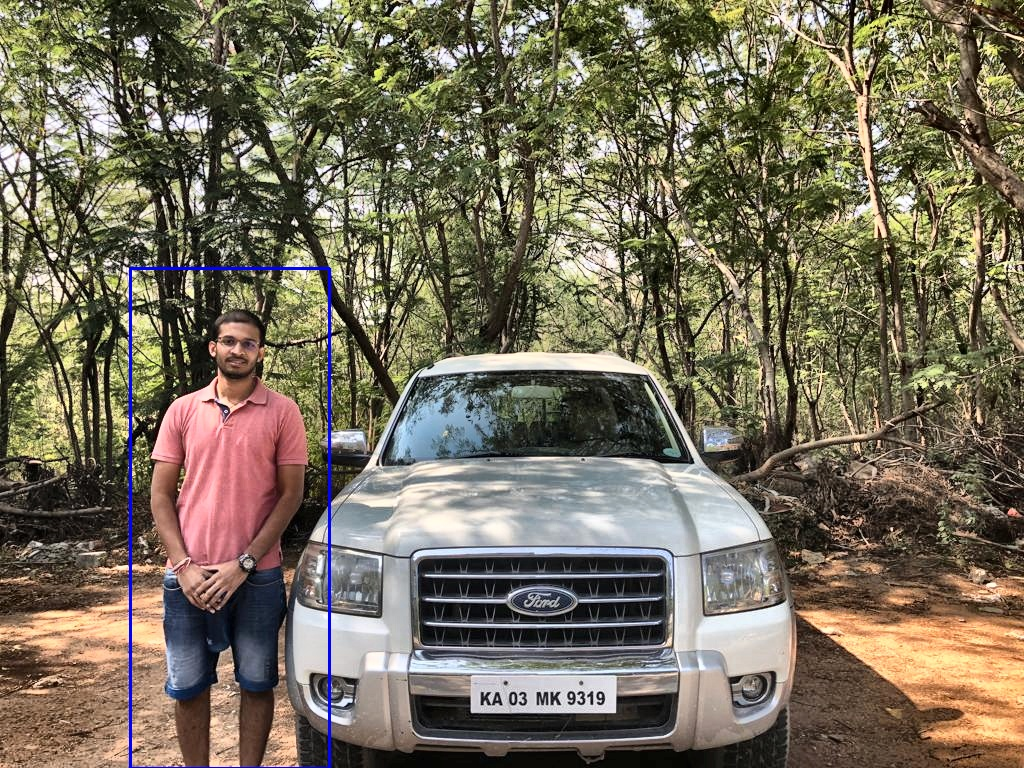
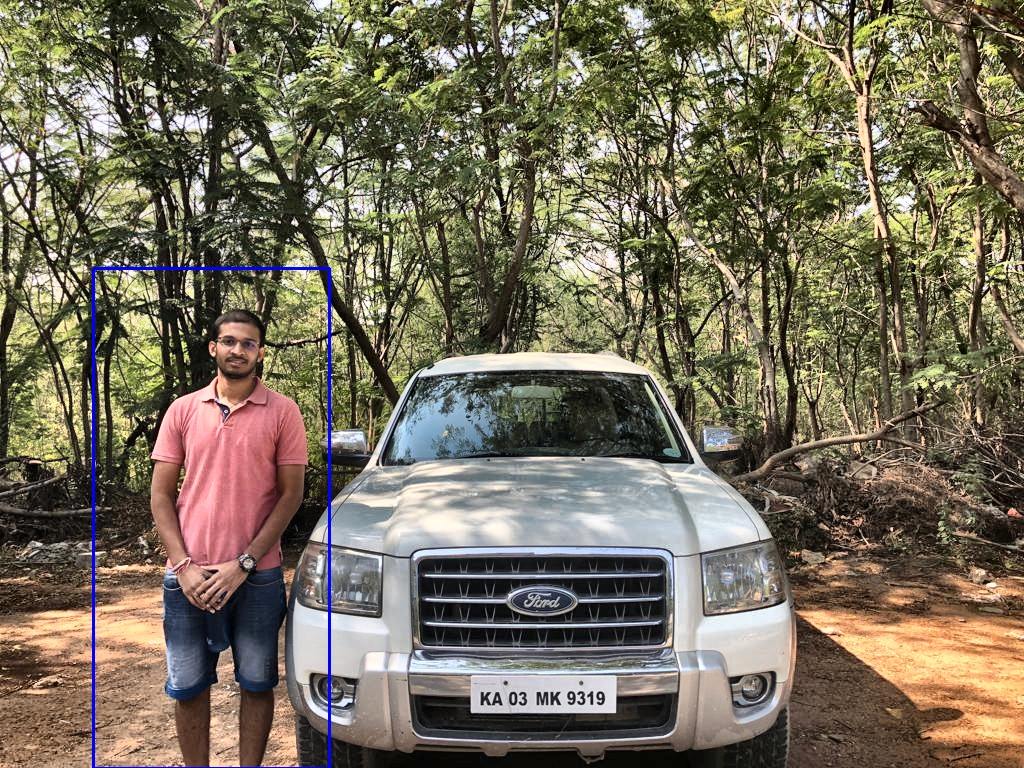
included grabcut code

Changed region(s): [[0.0625, 0.3438, 0.1562, 1.0]]

diff --git a/lib/util.py b/lib/util.py
@@ -26,7 +26,7 @@ def detect_body(img):
 #    list1=[]
     dist=0
     for (x,y,w,h) in faces:
-        x1 = int(x-1.5*w)
+        x1 = int(x-int(2.2*w))
         y1 = int(y-h)
         x2 = x+int(2.2*w)
         y2 = img.shape[0]
@@ -128,12 +128,57 @@ def sort_order(img1,img2,body1,body2):
         body2 = body_temp.copy()
     return img1,img2,body1,body2
 
+def grabcut(img1,img2,body1,body2):
+
+    w1 = body1[0][4]
+    h1 = body1[0][5]
+    a1 = body1[0][0]
+    b1 = body1[0][1]
+    c1 = body1[0][2]
+    d1 = body1[0][3]
+    
+    w2 = body2[0][4]
+    h2 = body2[0][5]
+    a2 = body2[0][0]
+    b2 = body2[0][1]
+    c2 = body2[0][2]
+    d2 = body2[0][3]
+    mask = np.zeros(img1.shape[:2],np.uint8)
+    bgdModel = np.zeros((1,65),np.float64)
+    fgdModel = np.zeros((1,65),np.float64)
+    if w1*h1 > w2*h2:
+        foreground = img1.copy()
+        background = img2.copy()
+        rect = (a1,b1,c1,d1)
+        for i in range(a1,c1-1):
+            for j in range(b1,d1-1):
+                mask[j,i] = cv2.GC_PR_FGD
+        for i in range(a1+int(2.2*w1),c1-int(2.2*w1)):
+            for j in range(b1+h1,b1+2*h1):
+                mask[j,i] = cv2.GC_FGD
+        cv2.grabCut(foreground, mask,rect,bgdModel,fgdModel,1,cv2.GC_INIT_WITH_MASK)
+        mask2 = np.where((mask==2)|(mask==0),0,1).astype('uint8')
+        img = foreground*mask2[:,:,np.newaxis]
+        cv.imwrite("foregroundcut.jpg",img)
+    else:
+        foreground = img2.copy()
+        background = img1.copy()
+        rect = (a2,b2,c2,d2)
+        for i in range(a2,c2):
+            for j in range(b2,d2):
+                mask[j,i] = cv2.GC_PR_FGD
+        for i in range(a2+int(2*w2),c2-int(2*w2)):
+            for j in range(b2+h2,b2+2*h2):
+                mask[j,i] = cv2.GC_FGD
+        cv2.grabCut(foreground, mask,rect,bgdModel,fgdModel,1,cv2.GC_INIT_WITH_MASK)
+        mask2 = np.where((mask==2)|(mask==0),0,1).astype('uint8')
+        img = foreground*mask2[:,:,np.newaxis]
+        cv.imwrite("foregroundcut.jpg",img)
+
 def alpha_blend(img1, img2, body1, body2):
     op = np.zeros(img1.shape)
     col_start = body1[0][2]
     col_end= body2[0][0]
-#    print(col_start)
-#    print(col_end)
     if col_start>col_end:
 #        print("swapping")
         img_temp = img1.copy()

diff --git a/main.py b/main.py
@@ -45,10 +45,10 @@ keypoint_matches = keypoint_bf_matcher(descriptor1, descriptor2, 37)
 source_points, destination_points = extract_matched_points(keypoint_matches, keypoints_valid_1, keypoints_valid_2)
 
 homography_matrix = calculate_homography_matrix(source_points, destination_points)
-#
+
 homography_warped_1 = warp_perspective(Image_1.copy(), homography_matrix)
 
-top_left_x1,top_left_y1,bot_right_x1,bot_right_y1,_,_=body_1[0]
+top_left_x1,top_left_y1,bot_right_x1,bot_right_y1,w,h=body_1[0]
 pt1 = np.float32([[[top_left_x1, top_left_y1]],[[bot_right_x1, top_left_y1]],[[top_left_x1, bot_right_y1]] ,[[bot_right_x1,bot_right_y1]]])
 
 new_points = transform_points(pt1, homography_matrix)
@@ -56,7 +56,8 @@ new_points[new_points<0] = 0
 new_points= new_points.astype(int)
 a,b = new_points[0]
 c,d = new_points[-1]
-body_1_homographed = [(a,b,c,d)]
+body_1_homographed = [(a,b,c,d,w,h)]
 op_image = alpha_blend(homography_warped_1,Image_2,body_1_homographed,body_2)
+grabcut(homography_warped_1,Image_2,body_1_homographed,body_2)
 cv2.imwrite("trial_outputs/im3_op.jpg", op_image)
 
